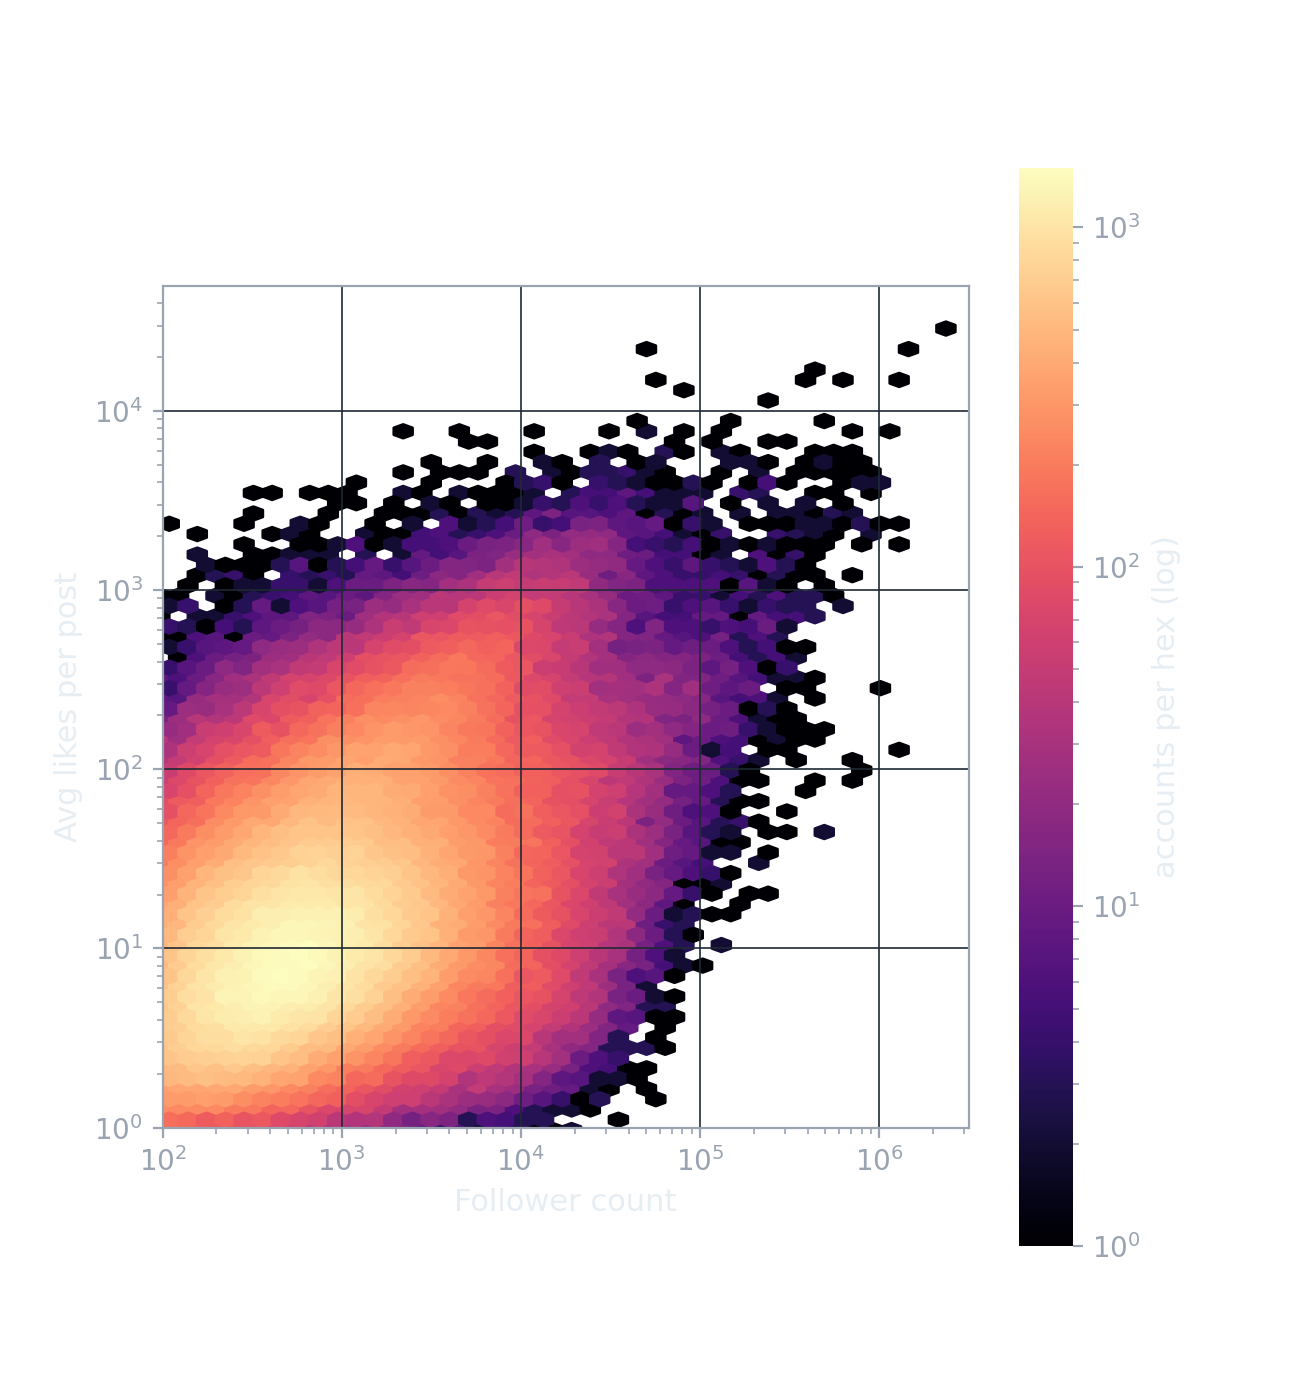
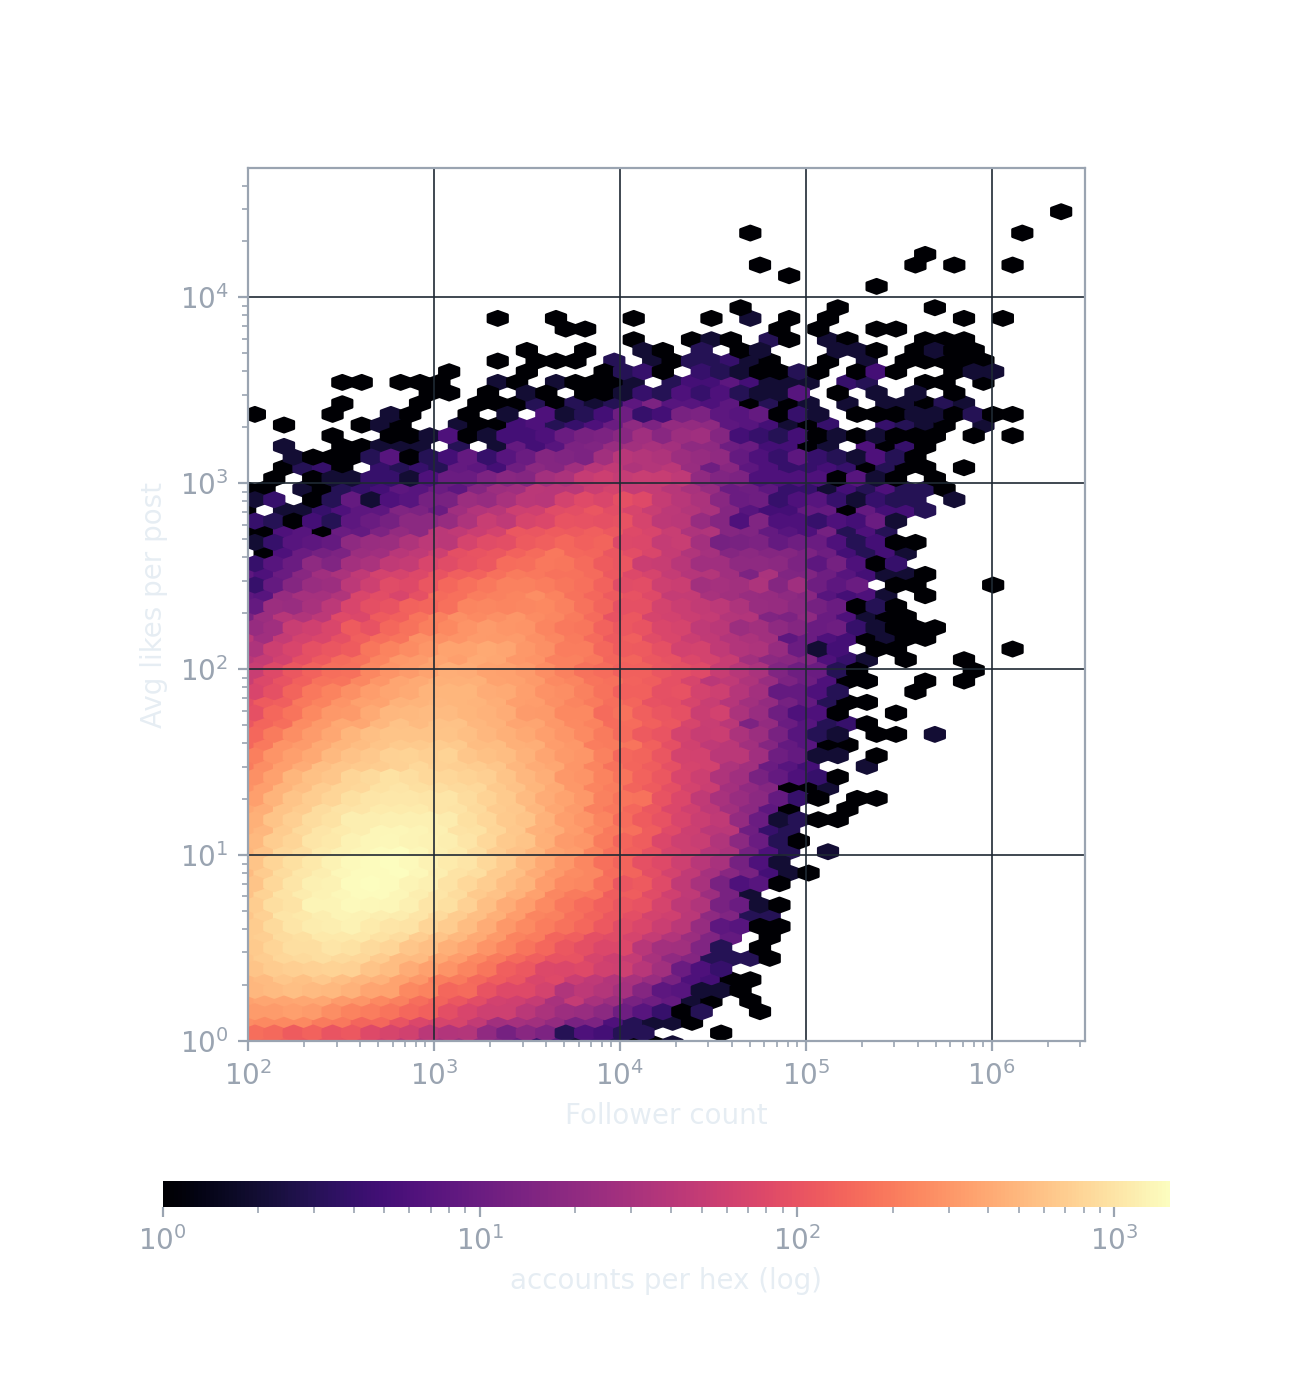
Heatmap ticks/binning + mobile legends-below
- Heatmap: revert to hourly bins with 2-hour ticks (desktop), and use imshow extent
  so ticks land on cell EDGES (00:00 on the left outline) instead of centered inside
  the first cell.
- Mobile variant now moves the side legend/colorbar BELOW the plot: export_png_and_bounds
  takes the colorbar, re-lays it horizontal at the bottom for the .mobile render, and
  moves any ax legend below too -> frees the full width for the chart on phones. The 4
  hexbins + heatmap pass their colorbar.
- punching regenerated (mobile now has the colorbar below).

Run WEB_EXPORT=1 python plots.py to apply to every plot.

diff --git a/plots.py b/plots.py
@@ -277,7 +277,7 @@ ax.set_title("Higher y = a few things you've liked blew up\n"
 ax.legend(facecolor="#1f2933", edgecolor="none", loc="upper left")
 plt.savefig(PLOTS_DIR / "02_hipster_index.png")
 if WEB_EXPORT:
-    ew.export_png_and_bounds(fig, ax, "typical-popularity", x_log=True, y_log=True)
+    ew.export_png_and_bounds(fig, ax, "typical-popularity", x_log=True, y_log=True, cbar=cb)
 plt.show()
 plt.close('all')  # free figure memory from the previous cell
 
@@ -424,7 +424,7 @@ ax.text(0.03, 0.97,
         **{**QUOTE_STYLE, "fontsize": 9})
 plt.savefig(PLOTS_DIR / "05b_like_repost_authors.png")
 if WEB_EXPORT:
-    ew.export_png_and_bounds(fig, ax, "like-repost", x_log=True, y_log=True)
+    ew.export_png_and_bounds(fig, ax, "like-repost", x_log=True, y_log=True, cbar=cb)
 plt.show()
 plt.close('all')
 
@@ -590,7 +590,7 @@ ax.set_title("Bluesky users are so kind <3\n"
              "the more popular we are\nthe less popular the content we like",
              fontsize=12)
 if WEB_EXPORT:
-    ew.export_png_and_bounds(fig, ax, "activity", x_log=True, y_log=True)
+    ew.export_png_and_bounds(fig, ax, "activity", x_log=True, y_log=True, cbar=cb)
 plt.show()
 plt.close('all')  # free figure memory from the previous cell
 
@@ -715,7 +715,7 @@ ax.set_title("Likes vs followers — every liked account", fontsize=18)
 
 plt.savefig(PLOTS_DIR / "09_5_highlights.png")
 if WEB_EXPORT:
-    ew.export_png_and_bounds(fig, ax, "punching", x_log=True, y_log=True)
+    ew.export_png_and_bounds(fig, ax, "punching", x_log=True, y_log=True, cbar=cb)
 plt.show()
 plt.close('all')
 
@@ -761,17 +761,19 @@ times = (joined_lazy
 n_heat = int(times["n"].sum())
 print(f"  per-user whole-week trim: {n_heat:,} likes")
 
-mat = np.zeros((7, 8))   # 3-hour blocks: 24h / 3 = 8 columns
+mat = np.zeros((7, 24))   # hourly bins (desktop ticks every 2h, as before)
 for row in times.iter_rows(named=True):
-    mat[row["dow"]-1, row["hour"] // 3] += row["n"]
+    mat[row["dow"]-1, row["hour"]] = row["n"]
 
 fig, ax = plt.subplots(figsize=WEB_FIGSIZE)
-im = ax.imshow(mat, aspect="auto", cmap="magma", interpolation="nearest")
-ax.set_yticks(range(7))
+# extent => x is real hours 0..24, so the 2-hour ticks sit on cell EDGES (00:00 on
+# the left outline) instead of centered inside the first cell. y: 0(top)=Mon..7=Sun.
+im = ax.imshow(mat, extent=[0, 24, 7, 0], aspect="auto", cmap="magma", interpolation="nearest")
+ax.set_yticks([i + 0.5 for i in range(7)])
 ax.set_yticklabels(["Mon", "Tue", "Wed", "Thu", "Fri", "Sat", "Sun"])
-ax.set_xticks(range(8))
-ax.set_xticklabels([f"{h:02d}:00" for h in range(0, 24, 3)])
-ax.set_xlabel("Hour of day (UTC, 3-hour blocks)")
+ax.set_xticks(range(0, 24, 2))
+ax.set_xticklabels([f"{h:02d}:00" for h in range(0, 24, 2)])
+ax.set_xlabel("Hour of day (UTC)")
 ax.set_title("When Bluesky Wakes Up", loc="left", fontsize=16)
 # Quote OUTSIDE the axes, in the top margin to the right of the title.
 # Shrink the axes' top so the heatmap shifts down and leaves room.
@@ -783,7 +785,7 @@ cb = fig.colorbar(im, ax=ax, label="likes")
 cb.outline.set_visible(False)
 plt.savefig(PLOTS_DIR / "10_heatmap.png")
 if WEB_EXPORT:
-    ew.export_png_and_bounds(fig, ax, "wakes-up", x_log=False, y_log=False)
+    ew.export_png_and_bounds(fig, ax, "wakes-up", x_log=False, y_log=False, cbar=cb)
 plt.show()
 plt.close('all')  # free figure memory from the previous cell
 

diff --git a/export_web.py b/export_web.py
@@ -46,16 +46,16 @@ SITE_PLOTS.mkdir(parents=True, exist_ok=True)
 MOBILE_FIG = (6.5, 7.0)
 
 
-def export_png_and_bounds(fig, ax, plot_id, x_log=False, y_log=False, dpi=200):
+def export_png_and_bounds(fig, ax, plot_id, x_log=False, y_log=False, dpi=200, cbar=None):
     """Save a transparent PNG + bounds.json (axes' pixel rect) for the site.
 
     Emits TWO variants from the SAME drawn figure:
       {id}.png / {id}.bounds.json          -- desktop, at the cell's figsize
-      {id}.mobile.png / {id}.mobile.bounds.json -- re-rendered at MOBILE_FIG
-    The site picks one per viewport via <picture>, so a phone never downloads the
-    desktop image (and vice-versa). The PNG MUST be the full, uncropped figure so
-    its pixel size equals imgWidth/imgHeight; rcParams sets savefig.bbox='tight',
-    which would crop it, so we force the full figure via rc_context at save time.
+      {id}.mobile.png / {id}.mobile.bounds.json -- squarer portrait, with any side
+          legend/colorbar moved BELOW the plot to free horizontal width on phones.
+    Pass `cbar` (the fig.colorbar return) so it can be re-laid-out horizontally for
+    mobile; ax legends are moved below automatically. The site loads only the
+    matching variant per viewport, so a phone never downloads the desktop image.
     """
     import matplotlib as mpl
     # Suppress title + subtitle (rendered as HTML on the site). In-plot quotes are
@@ -90,8 +90,29 @@ def export_png_and_bounds(fig, ax, plot_id, x_log=False, y_log=False, dpi=200):
 
     orig = fig.get_size_inches().copy()
     desktop = _save("")                # desktop, at the cell's figsize
+
+    # --- MOBILE variant: move side legend/colorbar BELOW the plot, then go portrait
+    leg = ax.get_legend()
+    if leg is not None:
+        handles, labels = ax.get_legend_handles_labels()
+        if handles:
+            ax.legend(handles, labels, loc="upper center",
+                      bbox_to_anchor=(0.5, -0.12), ncol=min(len(handles), 3),
+                      facecolor="#1f2933", edgecolor="none", fontsize=8)
+    if cbar is not None:
+        try:
+            mappable = cbar.mappable
+            label = cbar.ax.get_ylabel() or cbar.ax.get_xlabel()
+            cbar.remove()
+            ncb = fig.colorbar(mappable, ax=ax, orientation="horizontal",
+                               pad=0.13, fraction=0.06, aspect=40)
+            if label:
+                ncb.set_label(label)
+            ncb.outline.set_visible(False)
+        except Exception as e:
+            print(f"  (mobile colorbar relayout skipped for {plot_id}: {e})")
     fig.set_size_inches(*MOBILE_FIG)
-    _save(".mobile")                   # mobile, squarish portrait
+    _save(".mobile")                   # mobile: portrait, legend/colorbar below
     fig.set_size_inches(*orig)         # restore so the cell's plt.show() is unaffected
     return desktop
 
